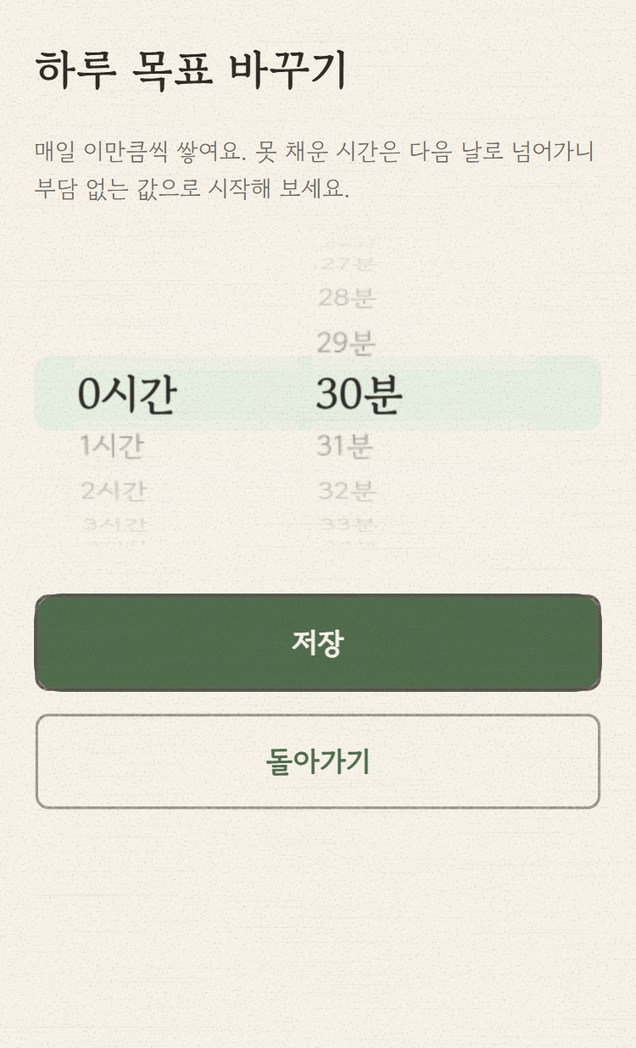
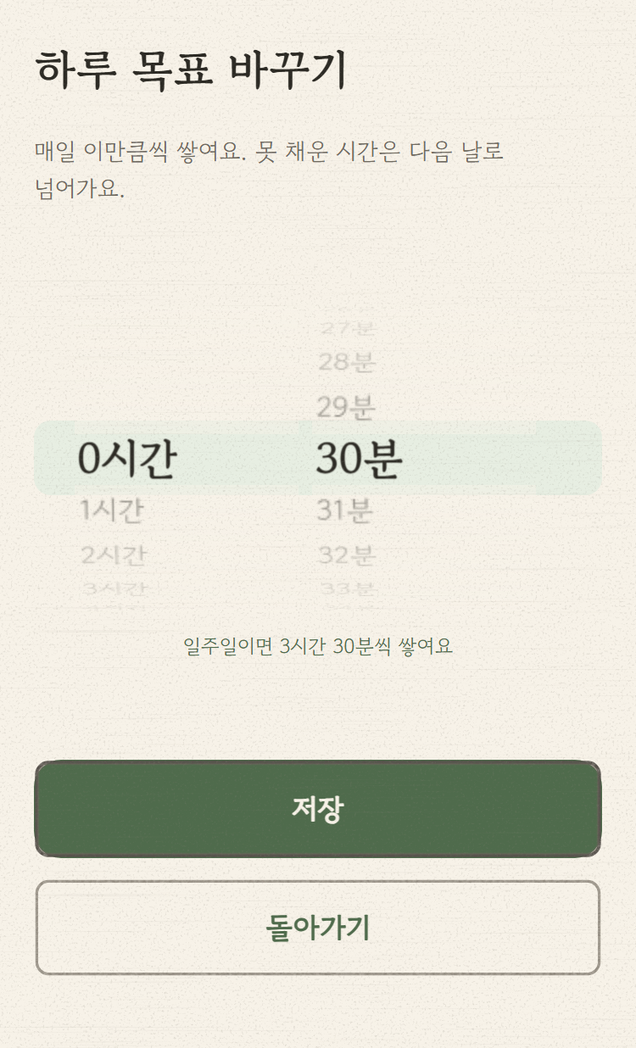
feat(미니앱): 목표 화면 다듬기 3건 — 화면 한 장을 세로로 다 쓴다 (#988)
* feat(미니앱): 목표 화면 다듬기 3건 — 화면 한 장을 세로로 다 쓴다

서재 #986 · 책방 #987과 같은 판단의 연속으로, 골격은 그대로 두고 잔티 셋을 걷었다.

① 배치 재구성 — 콘텐츠가 전부 위에 몰려 「돌아가기」 하단이 390×844에서 y=477이었다
   (아래 43%가 빈 채 버튼이 화면 중턱에 떴다). Screen 자식을 세로 flex로 감싸 휠은
   margin: auto 0 으로 세로 가운데, 버튼 두 개는 바닥에 붙인다.
   ⚠ minHeight는 calc(100dvh - 120px)이고 120 = 상단 패딩 24 + 제목 줄 ≈56 + 하단 패딩 40이다
   — 지시받은 64(패딩만)에서 제목 줄을 더 뺐다: 덜 빼면 그만큼 콘텐츠가 화면 밖으로 밀려
   버튼이 스크롤해야 보이고, 넘게 빼면 버튼이 조금 위에 설 뿐이라 안전한 방향이 과하게 빼는 쪽이다.
   dvh 미지원 브라우저는 calc가 통째로 무효라 옛 상단 몰림으로 자연 강등된다(코드 주석에 남겼다).

② 일주일 환산 줄 — 하루치 숫자 하나로는 크기가 안 잡힌다(「10분」은 하찮게 읽혀도
   「1시간 10분」은 쌓인 것처럼 읽힌다). 순수 함수 weeklyLine(seconds)이 휠 아래
   「일주일이면 1시간 10분씩 쌓여요」를 가운데 한 줄로 그린다(selected가 단일 소스라
   휠을 돌리면 함께 바뀐다). 0 이하면 문장이 통째로 없다 — 목표를 지운 사람에게
   「0초씩 쌓여요」는 조롱이다. 색은 이미 있는 초록 잉크 blue700.

③ 문구 손질 2건 — 바꾸기 모드 안내에서 「부담 없는 값으로 시작해 보세요」를 걷어 사실
   두 문장만 남기고(처음 정하는 사람에게만 맞는 말이다), firstRun 안내의 이모지를 뗐다
   (나머지 문구는 그대로).

📍 RED를 6건 먼저 확인하고 구현했다(weeklyLine 4 + 렌더 2). 부재 단언은 전부 짝으로 잡았다
— 「시작해 보세요」 부재는 새 문장 존재와, 이모지 부재는 「가볍게 시작」 존재와 함께라
문구를 통째로 지워도 통과하지 못한다. 돌연변이 4종 전부 사살(*7→*6 2건 · <=0→<0 1건 ·
모드 분리 되돌리기 1건 · 이모지 복원 1건). 미니앱 1172건 전원 통과(신규 +6), tsc -b 클린.

⚠ ①은 단위테스트 대상이 아니다 — 하니스에 jsdom이 없어 정적 렌더로 레이아웃 결과를 못 본다.
배치 게이트는 목 모드 브라우저 실측이고 코디네이터가 검증한다. 스토어 컷 재촬영도 그 뒤 판단.

Session-Model: claude-opus-5

* fix(미니앱): 환산 줄 가운데 정렬 — TDS Text는 textAlign을 걸러낸다

목 모드 실측(코디네이터)에서 「일주일이면 …씩 쌓여요」가 왼쪽에 붙어 있었다.
span의 인라인 스타일에 margin-top만 남고 text-align은 DOM에 도달하지 않았다.

가운데 정렬을 우리가 통제하는 평범한 div로 옮긴다(Text의 style에서 display·
[…]

diff --git a/miniapp/src/screens/Goal.tsx b/miniapp/src/screens/Goal.tsx
@@ -47,6 +47,17 @@ export function initialGoalSelection(firstRun: boolean, current: number): number
 }
 
 /**
+ * 고른 값의 일주일 환산 한 줄 — 하루치 숫자 하나로는 크기가 안 잡힌다("10분"은 하찮게 읽히지만
+ * "1시간 10분"은 쌓인 것처럼 읽힌다).
+ *
+ * <p>0 이하면 문장 자체가 없다 — 「0초씩 쌓여요」는 목표를 지운 사람에게 할 말이 아니다.
+ */
+export function weeklyLine(seconds: number): string | null {
+  if (seconds <= 0) return null;
+  return `일주일이면 ${formatDuration(seconds * 7)}씩 쌓여요`;
+}
+
+/**
  * 목표 설정 — 신규 계정 첫 실행 유도 + 이후 변경(같은 엔드포인트).
  *
  * <p>미니앱 온보딩은 공개 핸들(login_id)을 요구하지 않는다 — 평생 1번만 바꿀 수 있어 첫 진입에
@@ -80,10 +91,20 @@ export function Goal({
 
   return (
     <Screen title={firstRun ? '하루에 얼마나 읽을까요?' : '하루 목표 바꾸기'}>
+      {/* 화면 한 장을 세로로 다 쓴다 — 휠은 가운데, 버튼은 바닥. 예전엔 전부 위에 몰려 「돌아가기」가
+          화면 중턱(390×844에서 y=477)에 떠 있었고 아래 43%가 빈 채였다.
+          120 = Screen 상단 패딩 24 + 제목 줄 ≈56 + 하단 패딩 40. 제목 줄까지 빼는 이유: 덜 빼면
+          그만큼 화면 밖으로 밀려 버튼이 스크롤해야 보인다(넘게 빼면 버튼이 조금 위에 설 뿐 무해하다).
+          dvh 미지원 브라우저는 calc가 통째로 무효라 minHeight가 사라지고 예전 상단 몰림으로 강등된다. */}
+      <div style={{ display: 'flex', flexDirection: 'column', minHeight: 'calc(100dvh - 120px)' }}>
       <Text typography="st11" color="grey600" style={{ display: 'block', marginBottom: 20 }}>
-        매일 이만큼씩 쌓여요. 못 채운 시간은 다음 날로 넘어가니 부담 없는 값으로 시작해 보세요.
+        {firstRun
+          ? '매일 이만큼씩 쌓여요. 못 채운 시간은 다음 날로 넘어가니 부담 없는 값으로 시작해 보세요.'
+          : '매일 이만큼씩 쌓여요. 못 채운 시간은 다음 날로 넘어가요.'}
       </Text>
 
+      {/* 고르는 자리는 세로 가운데 — 위아래 남는 공간을 `auto`가 반씩 먹는다. */}
+      <div style={{ margin: 'auto 0' }}>
       {/* 프리셋 칩 대신 휠 2열 — 초는 selected 하나가 단일 소스고, 시/분은 그때그때 풀었다 다시 합친다.
           높이는 컨테이너가 줘야 한다 — Wheel 루트가 height:100%라(항목 한 칸 = 그 16%) 높이 없는 부모에
           넣으면 컨테이너가 0이 되어 항목이 전부 한 줄에 겹친다(브라우저 실측 2026-08-13). */}
@@ -128,31 +149,48 @@ export function Goal({
         />
       </div>
 
+      {/* 고른 값의 일주일 환산 — 휠이 돌면 함께 바뀐다(selected가 단일 소스).
+          주의: 가운데 정렬은 **바깥 div**가 한다 — TDS `Text`는 넘긴 style에서 `textAlign`을 걸러내고
+          `display`도 자기 값(`inline-block`)으로 덮어, 인라인 스타일엔 `margin-top`만 남는다
+          (목 모드 실측 2026-08-29: computed `text-align: start`로 왼쪽에 붙어 있었다). */}
+      {weeklyLine(selected) !== null && (
+        <div style={{ textAlign: 'center', marginTop: 12 }}>
+          <Text typography="st12" color="blue700">
+            {weeklyLine(selected)}
+          </Text>
+        </div>
+      )}
+
       {/* 미리 골라 둔 값이 왜 이렇게 작은지 한 줄로 — 없으면 "이 앱은 나를 얕본다"로 읽히고,
           있으면 첫날 달성을 밟게 하려는 배려로 읽힌다. 목표를 바꾸러 온 사람에겐 할 말이 아니다. */}
       {firstRun && (
         <Text typography="st12" color="grey600" style={{ display: 'block', marginTop: 12 }}>
-          🌱 가볍게 시작 — {formatDuration(FIRST_RUN_GOAL_SECONDS)}이면 오늘 안에 한 번 달성할 수 있어요.
+          가볍게 시작 — {formatDuration(FIRST_RUN_GOAL_SECONDS)}이면 오늘 안에 한 번 달성할 수 있어요.
           언제든 늘릴 수 있어요.
         </Text>
       )}
+      </div>
 
-      <ErrorMessage message={error} />
+      {/* 바닥에 붙는 손잡이 — 위 가운데 블록과의 간격은 남는 공간이 알아서 벌린다(marginTop은 최소값). */}
+      <div>
+        <ErrorMessage message={error} />
 
-      {/* 0시간 0분 저장은 서버가 허용하는 「목표 없음」이지만, 휠을 끝까지 내린 실수일 가능성이 더 높다. */}
-      {/* 이 화면의 주 동작 하나 — 채움이다(시안 2e). 홈은 탭바 원이 그 역할을 한다. */}
-      <FilledButton
-        display="block"
-        style={{ marginTop: 28 }}
-        loading={busy}
-        disabled={selected === 0}
-        onClick={save}
-      >
-        {firstRun ? '이걸로 시작하기' : '저장'}
-      </FilledButton>
-      <Button display="block" variant="weak" style={{ marginTop: 12 }} disabled={busy} onClick={onSkip}>
-        {firstRun ? '나중에 정할래요' : '돌아가기'}
-      </Button>
+        {/* 0시간 0분 저장은 서버가 허용하는 「목표 없음」이지만, 휠을 끝까지 내린 실수일 가능성이 더 높다. */}
+        {/* 이 화면의 주 동작 하나 — 채움이다(시안 2e). 홈은 탭바 원이 그 역할을 한다. */}
+        <FilledButton
+          display="block"
+          style={{ marginTop: 20 }}
+          loading={busy}
+          disabled={selected === 0}
+          onClick={save}
+        >
+          {firstRun ? '이걸로 시작하기' : '저장'}
+        </FilledButton>
+        <Button display="block" variant="weak" style={{ marginTop: 12 }} disabled={busy} onClick={onSkip}>
+          {firstRun ? '나중에 정할래요' : '돌아가기'}
+        </Button>
+      </div>
+      </div>
     </Screen>
   );
 }

diff --git a/miniapp/src/goal.test.tsx b/miniapp/src/goal.test.tsx
@@ -7,6 +7,7 @@ import {
   FIRST_RUN_GOAL_SECONDS,
   Goal,
   initialGoalSelection,
+  weeklyLine,
   wheelIndices,
 } from './screens/Goal';
 import { userAgent } from './test-fixtures';
@@ -81,6 +82,25 @@ describe('휠 표시값 → 초 (combineWheel)', () => {
   });
 });
 
+/**
+ * 환산 줄 — 고른 값이 일주일이면 얼마가 되는지. 숫자 하나(하루치)로는 크기가 안 잡히지만
+ * 7배는 잡힌다("10분"은 하찮아 보여도 "1시간 10분"은 쌓인 것처럼 읽힌다).
+ */
+describe('일주일 환산 줄 (weeklyLine)', () => {
+  it('고른 값의 7배를 문장으로 만든다', () => {
+    expect(weeklyLine(1800)).toBe('일주일이면 3시간 30분씩 쌓여요');
+    expect(weeklyLine(600)).toBe('일주일이면 1시간 10분씩 쌓여요');
+  });
+
+  it('0이면 할 말이 없다 — 목표 없음에 「0초씩 쌓여요」는 조롱이다', () => {
+    expect(weeklyLine(0)).toBeNull();
+  });
+
+  it('음수도 없다 — 서버가 이상한 값을 줘도 문장이 깨지지 않는다', () => {
+    expect(weeklyLine(-600)).toBeNull();
+  });
+});
+
 describe('목표 화면 렌더', () => {
   const render = (firstRun: boolean, current: number) =>
     renderToStaticMarkup(
@@ -122,8 +142,36 @@ describe('목표 화면 렌더', () => {
     expect(wheelIndices(initialGoalSelection(true, 3600))).toEqual({ hours: 0, minutes: 10 });
   });
 
+  /**
+   * ⚠ 가운데 정렬은 **우리 div**가 해야 한다 — TDS `Text`는 넘긴 style에서 `textAlign`을 걸러내
+   * (`display`도 자기 값으로 덮는다) 인라인 스타일에 `margin-top`만 남긴다(목 모드 실측 2026-08-29:
+   * computed `text-align: start`로 왼쪽에 붙어 있었다). 문자열 포함 단언만 두면 이 실패가 안 보인다.
+   */
+  it('고른 값의 일주일 환산을 가운데 한 줄로 보여준다 — 하루치 숫자만으론 크기가 안 잡힌다', () => {
+    const markup = render(false, 1800);
+    expect(markup).toContain('일주일이면 3시간 30분씩 쌓여요');
+    expect(markup).toContain('text-align:center');
+  });
+
   it('첫 실행이면 왜 낮은 값인지 한 줄로 말한다 — 목표가 작다고 실망하지 않게', () => {
     expect(render(true, 3600)).toContain('언제든 늘릴 수 있어요');
+  });
+
+  /**
+   * 안내 문구는 모드마다 할 말이 다르다 — 「시작해 보세요」는 처음 정하는 사람에게만 맞는 말이라,
+   * 목표를 바꾸러 온 사람에겐 짧은 사실 두 문장만 남긴다. 부정 단언만 두면 문구가 통째로
+   * 빠져도 통과하므로 새 문장의 존재를 함께 못 박는다.
+   */
+  it('바꾸기 모드 안내는 사실만 — 「시작해 보세요」는 처음 정하는 사람에게 할 말이다', () => {
+    const markup = render(false, 3600);
+    expect(markup).toContain('못 채운 시간은 다음 날로 넘어가요');
+    expect(markup).not.toContain('시작해 보세요');
+  });
+
+  it('첫 실행 안내엔 이모지를 쓰지 않는다 — 문구는 그대로 남긴다', () => {
+    const markup = render(true, 3600);
+    expect(markup).toContain('가볍게 시작');
+    expect(markup).not.toContain('🌱');
   });
 
   it('기존 사용자에겐 그 안내가 없다 — 이미 정해 놓은 사람에게 할 말이 아니다', () => {

diff --git a/claude-docs/changelog.md b/claude-docs/changelog.md
@@ -840,3 +840,4 @@
 | 2026-08-29 | **refactor: 연속 읽기 식물 발전 시스템 폐기 2단계 — 서버에서 성장 단계를 걷는다** — 1단계에서 화면·클라 타입을 걷고 남겨 뒀던 서버 계산·응답을 지웠다. **게이트가 열린 근거는 실측이다** — 콘솔에서 라이브 번들 = `01a04ca2`(7차) 확인, growth 필드를 읽던 6차 번들은 더 이상 라이브가 아니다(1단계가 "새 번들 라이브 후"로 미뤄 뒀던 바로 그 조건). 지운 것: `session/GrowthStage` enum 파일 · `ContributionGraph`의 `growthStage()`·`daysToNextStage()`·`growthProgressPercent()` · `DashboardApiController.ContributionGraphDto`의 6필드(`growthStageName`·`growthStageEmoji`·`growthStageLabel`·`growthProgressPercent`·`daysToNextStage`·`nextStageLabel`) · `HistoryApiController.GraphDto`의 2필드(`growthEmoji`·`growthLabel`). 잔디·연속일·`activeDays`·`totalSeconds`는 그대로다. ⚠ **`garden/`(마을 정원)은 별개 기능이라 손대지 않았다** — code-map이 혼동을 경고하던 자리라 그 경고문도 폐기 사실로 화해했다. ⚠ **부재 단언은 새로 만들지 않았다**(T-149의 공허한 부정 단언) — 필드가 코드에서 사라지면 직렬화될 수 없어 타입이 이미 보장한다. 오히려 **이미 공허해진 단언 셋을 걷었다**: `HistoryApiControllerTest`의 「enum raw가 안 샌다」(샐 enum이 없어 늘 참) · 미니앱 `history.test.tsx`의 레거시 6필드 픽스처 렌더(서버가 안 보내니 그릴 대상이 없다) · `DashboardApiControllerTest`의 growth 키 존재 단언. 삭제로 드러나는 사용처는 컴파일러가 전수로 잡아 줘 그 경로로 잔재를 확인했고, 마지막에 리포 grep으로 `GrowthStage`·`growthStage`·`daysToNextStage`·`nextStageLabel`의 **현행 참조 0건**을 실측했다 — 실행되는 코드·설정에는 한 곳도 없고, 남은 히트는 전부 **과거형 화해 문장**(「…는 2026-08-29에 폐기됐다」)이라 사실로서 정확하다: `claude-docs/code-map.md`, `frontend/src/noEmoji.test.ts`(코드 파일이지만 `🌱🌿` 허용 근거의 연혁 주석), 그리고 이력 문서(plan.md·이 changelog)의 과거 기록. Flyway·스키마는 애초에 없었다 — growth는 연속일에서 계산되는 파생값이라 DB에 저장된 적이 없다(마이그레이션 전수 grep 0건). 문서 화해: README 「연속 독서 성장 식물」 항목 → 「연속 일수」, code-map 5절의 성장식물 항목·⚠ 경고문, 웹·미니앱 타입 주석 3곳(「서버는 아직 실어 보내지만」이 이 PR로 거짓이 됐다). |
 | 2026-08-29 | **feat(미니앱): 서재 화면 다듬기 3건 — 세는 자리 대신 고르는 자리로** — 구조는 그대로 두고 잔티 셋을 걷었다. ① **상태 탭에서 권수 숫자 제거** — 「읽는 중 3」처럼 세 칸이 늘 숫자를 달고 있어 고르는 자리가 세는 자리로 읽혔다(직전 여백 탭 개수 제거와 같은 판단의 연속). 권수는 「펼쳐보기」 시트 제목(`읽는 중 N권`)이 계속 말하므로 값을 잃지 않는다. ② **「좋아요 N명」의 죽은 밑줄 정리** — 손잡이를 하트/개수로 가를 때 개수 줄 스타일(`likesLine`)이 두 갈래에 공유된 채 `textDecoration: underline`을 늘 깔고 있어, 서재 인라인 미리보기의 `<p>`가 **밑줄인데 눌러도 아무 일 없는 죽은 글자**였다 → 밑줄을 명단을 여는 버튼 갈래로 옮겼다(밑줄은 「눌러진다」는 약속이다). 전체 화면 쪽은 그대로. ③ **빈 여백 박스 정리** — 글이 0장인 책에서 「여백 **0**」·「전체 보기 ›」·헤더 아랫선을 접고, 빈 문구가 다음 한 걸음을 말하게 했다(「아직 남긴 글이 없어요. 위의 『여백에 글쓰기』로 첫 장을 남겨보세요.」 — 그 버튼과 이 박스는 같은 `myLoginId` 게이트라 반드시 위에 있다). ⚠ **로딩·실패에서는 「전체 보기」를 남긴다** — 그때는 전체 화면의 자체 재시도가 유일한 출구라 접으면 막다른 길이 되고, 접는 것은 네 번째 경우인 *내용 0장*뿐이다. 📍 **RED를 마크업 덤프로 눈으로 확인했다**(#982의 「undefined」 가짜 RED 전례) — 8건이 의도한 이유로 실패하는 것을 보고 구현했고, 부재 단언은 전부 **짝**으로 잡았다(빈 상태 ↔ 글 있는 상태 / 죽은 `<p>` ↔ 산 `<button>`)라 「통째로 걷어라」가 통과하지 못한다. 돌연변이 **5종 전부 사살**(탭 권수 복원 4건 · `empty=false` 2건 · 카운트 게이트 되돌리기 + 빈 문구 되돌리기 2건 · `likesLine`에 밑줄 복원 1건 · 버튼 밑줄 제거 1건). 미니앱 **1165건 전원 통과**(신규 +7 · 삭제 1 — 사라진 규칙을 지키던 「세그먼트 권수는 세리프다」). 목 모드 실측(390×844@3x): 탭 3개 모두 숫자 0개 · 빈 박스 헤더 `borderBottomWidth=0px`·「전체 보기」 없음 · 인라인 개수 줄 `<p>` `text-decoration:none` / 전체 화면 `<button>` `underline`. 📸 **스토어 컷 `03-library.png` 재촬영** — 탭 숫자가 사라져 옛 그림이 낡았다. 나머지 5장은 **바이트째 동일**(가로 배너가 쓰는 세 컷에 서재가 없다는 증거이기도 하다). ⚠ `section-rule.test`의 여백 픽스처를 글 있는 것으로 바꿨다 — 0장이면 이제 그 선이 원래 없어 「선이 정확히 하나」 계측이 자리를 잃는다. |
 | 2026-08-29 | **feat(미니앱): 책방 화면 다듬기 2건 — 같은 수를 두 번 말하지 않고, 안전장치는 안전장치 크기로** — 골격은 그대로 두고 잔티 둘을 걷었다(서재 #986과 같은 판단의 연속). ① **섹션 제목의 중복 숫자 제거** — 상단 스탯이 「공개 책 3」을 말한 **바로 아래**에서 소제목이 또 「공개한 책 3」이었다. `shelfTitle`의 **전체 갈래만** `공개한 책`으로 접는다. ⚠ **좁힌 갈래는 그대로다** — 「읽는 중 1」·「소설 근거 책 2」의 수는 상단이 말하지 않는 **새 정보**라(전체 3권 중 지금 1권) 접으면 값을 잃는다. 시그니처도 유지(`count`는 두 갈래가 계속 쓴다). ② **남의 책방 「신고·차단」을 ⋯ 로 강등** — 이름은 2026-08-16에 이미 「하는 일」로 고쳤는데(옛 「더보기」) **크기가 틀린 채**였다: 드문 안전장치가 주 동작(팔로우)과 대등한 글자 버튼으로 나란히 서서 남의 책방 첫인상이 방어적이었다. 팔로우가 전폭을 갖고, 신고·차단은 여백 카드와 같은 **정사각 ⋯ 버튼**(연필 프레임 + `#FCFAF5` · ⋯ 는 U+22EF로 이모지가 아니다)이 된다. **이름은 사라지지 않고 `aria-label="신고·차단"`으로 옮겨 간다** — ⋯ 는 스크린리더에 아무 말도 안 하므로 그 라벨이 유일한 이름이다. 여는 것은 그대로 `SafetyPanel`(무변경). 📍 **`aspect-ratio`로 정사각을 만들려던 첫 시도가 실측에서 깨졌다** — flex에서 `aspect-ratio`는 **주축(폭)을 못 정한다**(stretch로 정해지는 높이는 폭이 확정된 뒤에 온다): 높이는 57로 맞았는데 폭이 글자 폭 **17px**에 머물렀다. 높이는 계속 stretch에 맡기고(TDS가 값을 바꿔도 따라간다) 폭만 실측 상수 `TDS_BUTTON_HEIGHT=57`로 못 박았다 — 이 배치면 TDS가 높이를 바꿔도 어긋나는 것은 「정사각이 아님」이지 「높이 불일치」가 아니다. RED를 둘 다 **의도한 이유로** 확인했고(`'공개한 책 3' to be '공개한 책'` · `aria-label` 부재), 부재 단언은 **짝**으로 잡았다(⋯ 존재 ↔ `>신고·차단<` 부재 / 내 책방엔 둘 다 없음 / `SafetyPanel` 열린 렌더엔 패널 내용 존재). 돌연변이 **3종 전부 사살**(`count` 복원 1건 · `aria-label` 오기 2건 · 버튼 안에 글자 복원 1건). 미니앱 **1166건 전원 통과**(신규 +1). 목 모드 실측(390×844@3x, 남의 책방 `@underline`): 두 버튼 `offsetHeight` **57 = 57 일치** · ⋯ 57×57 **정사각** · 285+8+57=350으로 줄을 꽉 채움 · 배경 `rgb(252,250,245)` · 연필 프레임 확인 · ⋯ 탭 → 신고·차단 패널 열림. 내 책방 전체 상태 소제목 = 「공개한 책」(숫자 0개), 「읽는 중」 탭 → 「읽는 중 1」 유지. 📸 **스토어 컷은 무변경** — 촬영 대상 6장(01-home·02-feed·03-library·04-history·05-goal·10-landscape)에 책방 화면이 **없다**(확인만). |
+| 2026-08-29 | **feat(미니앱): 목표 화면 다듬기 3건 — 화면 한 장을 세로로 다 쓴다** — 서재 #986 · 책방 #987과 같은 판단의 연속으로 골격은 그대로 두고 잔티 셋을 걷었다. ① **배치 재구성** — 콘텐츠가 전부 위에 몰려 「돌아가기」 하단이 390×844에서 y=477이었다(아래 43%가 빈 채 버튼이 화면 중턱에 떴다). `Screen` 자식을 세로 flex로 감싸 **휠은 `margin: auto 0`으로 세로 가운데, 버튼 두 개는 바닥**에 붙인다. ⚠ **`minHeight`는 `calc(100dvh - 120px)`이고 120 = 상단 패딩 24 + 제목 줄 ≈56 + 하단 패딩 40이다** — 지시받은 64(패딩만)에서 **제목 줄을 더 뺐다**: 덜 빼면 그만큼 콘텐츠가 화면 밖으로 밀려 버튼이 스크롤해야 보이고, 넘게 빼면 버튼이 조금 위에 설 뿐이라 안전한 방향이 과하게 빼는 쪽이다. dvh 미지원 브라우저는 calc가 통째로 무효라 minHeight가 사라지고 **옛 상단 몰림으로 자연 강등**된다(코드 주석에 남겼다). ② **일주일 환산 줄** — 하루치 숫자 하나로는 크기가 안 잡힌다(「10분」은 하찮게 읽혀도 「1시간 10분」은 쌓인 것처럼 읽힌다). 순수 함수 `weeklyLine(seconds)`이 휠 아래 「일주일이면 1시간 10분씩 쌓여요」를 가운데 한 줄로 그린다(`selected`가 단일 소스라 휠을 돌리면 함께 바뀐다). **0 이하면 문장이 통째로 없다** — 목표를 지운 사람에게 「0초씩 쌓여요」는 조롱이다. 색은 이미 있는 초록 잉크 `blue700`. ③ **문구 손질 2건** — 바꾸기 모드 안내에서 「부담 없는 값으로 시작해 보세요」를 걷어 사실 두 문장만 남기고(처음 정하는 사람에게만 맞는 말이다), firstRun 안내의 이모지 `🌱`를 뗐다(나머지 문구는 그대로). 📍 **RED를 6건 먼저 확인**하고 구현했다(`weeklyLine` 4 + 렌더 2). 부재 단언은 전부 **짝**으로 잡았다 — 「시작해 보세요」 부재는 새 문장 존재와, 「🌱」 부재는 「가볍게 시작」 존재와 함께라 문구를 통째로 지워도 통과하지 못한다. 돌연변이 **4종 전부 사살**(`*7`→`*6` 2건 · `<= 0`→`< 0` 1건 · 모드 분리 되돌리기 1건 · 이모지 복원 1건). 미니앱 **1172건 전원 통과**(신규 +6), `tsc -b` 클린. ⚠ **①은 단위테스트 대상이 아니다** — 하니스에 jsdom이 없어 정적 렌더로 레이아웃 결과를 못 본다. 배치 게이트는 **목 모드 브라우저 실측**이고 이 PR에서는 코디네이터가 검증한다. 📸 스토어 컷 재촬영은 그 검증 뒤 판단으로 미뤘다. |

diff --git a/plan.md b/plan.md
@@ -2105,6 +2105,19 @@ SNS 토대(팔로우·공개범위·프로필)가 깔려 있어 ②의 사용자
   그대로(위 3점 세트 ③) — 첫 실행 휠이 0시간 10분에서 시작한다.
   ⚠ 하니스 사각: `Wheel`은 정적 렌더에서 껍데기(`role="radiogroup"`+aria-label)만 내고 옵션은 클라이언트에서 채운다
   → 렌더 단언은 "휠 두 열이 붙어 있다"까지고, **드래그·스크롤 동작은 목 모드 브라우저 확인이 게이트**다.
+  - **후속 ✅ 2026-08-29 — 목표 화면 다듬기 3건(배치 · 환산 줄 · 문구)**: 서재 #986 · 책방 #987과 같은 판단의
+    연속으로, 골격은 그대로 두고 잔티를 걷었다. ① **배치** — 콘텐츠가 전부 위에 몰려 「돌아가기」 하단이
+    390×844에서 y=477이었다(아래 43%가 빈 채로 버튼이 화면 중턱에 떴다). Screen 자식을 세로 flex로 감싸
+    휠은 `margin: auto 0`으로 세로 가운데, 버튼 두 개는 바닥에 붙인다. ⚠ **`minHeight`는 `calc(100dvh - 120px)`
+    이고 120은 상단 패딩 24 + 제목 줄 ≈56 + 하단 패딩 40이다** — 제목 줄까지 빼야 한다(덜 빼면 그만큼 화면
+    밖으로 밀려 버튼이 스크롤해야 보인다. 넘게 빼면 버튼이 조금 위에 설 뿐 무해하므로 안전한 방향은 과하게
+    빼는 쪽). dvh 미지원 브라우저는 calc가 무효라 옛 상단 몰림으로 자연 강등된다. ② **일주일 환산 줄** —
+    하루치 숫자 하나로는 크기가 안 잡혀(「10분」은 하찮게 읽힌다) 휠 아래 `weeklyLine(selected)`로
+    「일주일이면 1시간 10분씩 쌓여요」를 가운데 한 줄. 0 이하면 문장이 통째로 없다(목표를 지운 사람에게
+    「0초씩 쌓여요」는 조롱이다). ③ **문구** — 바꾸기 모드 안내에서 「부담 없는 값으로 시작해 보세요」를
+    걷어 사실 두 문장만 남기고(처음 정하는 사람에게만 맞는 말이다), firstRun 안내의 이모지 `🌱`를 뗐다.
+    ⚠ **①은 단위테스트 대상이 아니다** — 정적 렌더(jsdom 없음)로 레이아웃 결과를 못 본다. 게이트는
+    목 모드 브라우저 실측이고, ②③만 테스트가 잠근다.
 - **홈 책 고르기 = 표지 캐러셀** ✅ (2026-08-13 코드 · 2026-08-14 실기기 확인) — 위 「홈 UX 정정」(2026-08-11)의
   **칩 + 「바꾸기」 시트를 대체**한다. 고르려면 시트를 열고 고르고 닫는 3탭이었고, 칩은 제목 첫 글자 상자라 책장에
   꽂힌 책을 눈으로 알아볼 수 없었다. 읽는 중 책 표지를 가로로 나열하고 **가운데 온 표지가 곧 측정할 책**이다
